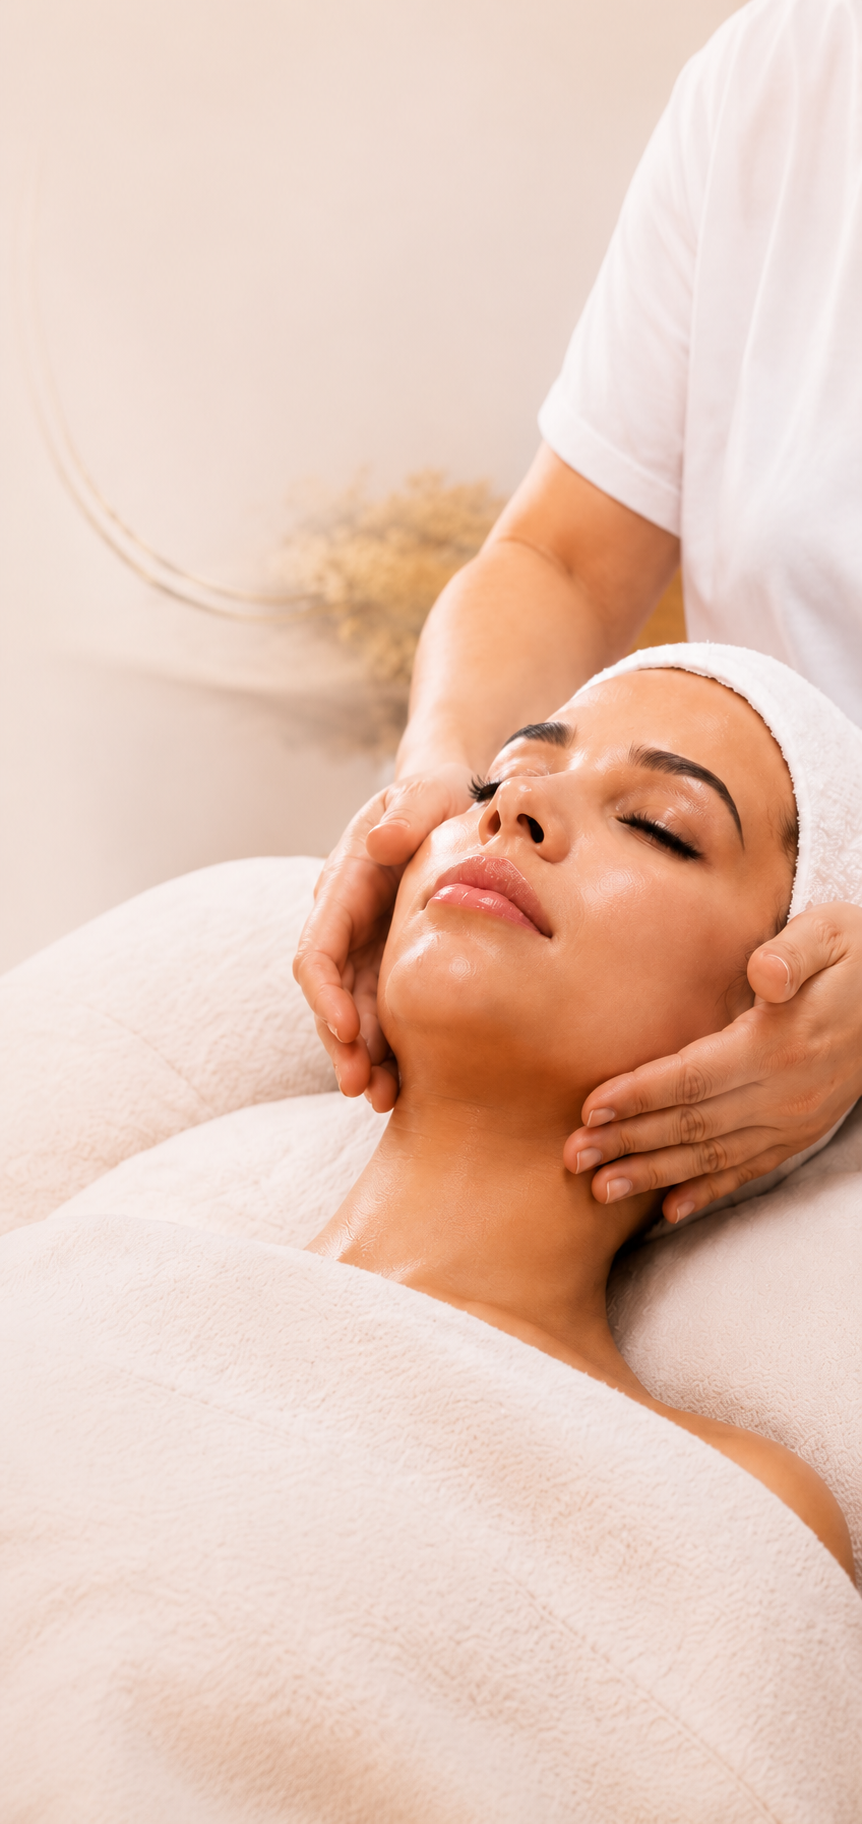
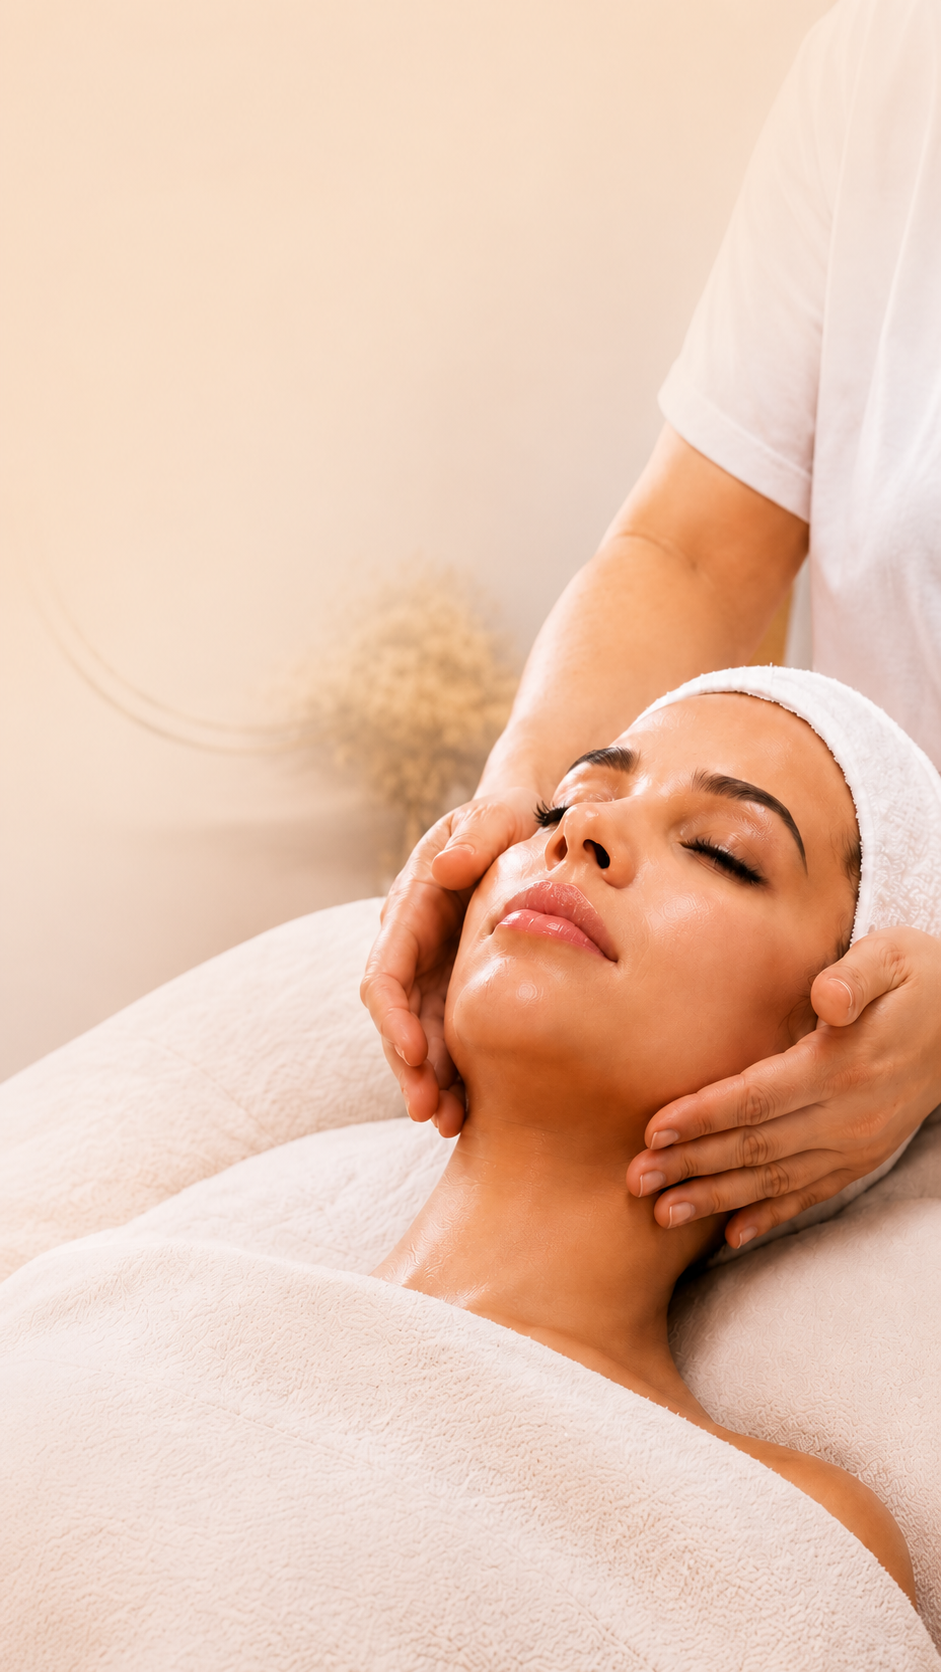
add new responsive css and new images

diff --git a/src/components/Footer.jsx b/src/components/Footer.jsx
@@ -10,9 +10,9 @@ export default function Footer() {
   return (
     <>
     <section id="contato" className="bg-[#FEFCF9]">
-      <h2 className="text-[36px] font-bold mb-4 text-center pt-10">Venha nos conhecer</h2>
+      <h2 className="text-[36px] font-bold mb-4 text-center pt-10 pb-0 max-tab:pt-10 max-mob:text-[28px] max-mob:mb-0">Venha nos conhecer</h2>
       <div className=" px-10 py-10 flex items-start justify-between max-tab:px-5">
-        <div className="max-w-[1440px] flex items-start gap-10 mx-auto max-lap:flex-wrap max-lap:justify-around max-tab:flex-wrap-reverse max-tab:justify-center">
+        <div className="max-w-[1440px] flex items-start gap-10 mx-auto max-lap:flex-wrap-reverse max-lap:justify-center">
 
           <div className="flex flex-col items-start justify-center text-start w-[350px] max-mob:w-full">
             <span className="text-[16px] font-semibold text-yellow-700 uppercase mb-4">Envie uma mensagem</span>
@@ -25,7 +25,7 @@ export default function Footer() {
             </form>
           </div>
 
-          <div className="flex flex-col items-start justify-center text-start max-tab:w-[43%] max-mob:w-full">
+          <div className="flex flex-col items-start justify-center text-start max-lap:w-[43%] max-mob:w-full">
             <span className="text-[16px] font-semibold text-yellow-700 uppercase mb-4">Agende sua consulta</span>
             <h3 className="text-[22px] font-bold mb-4 leading text-[#8B4513] leading-[1.3]">Vamos realçar sua melhor&nbsp;versão?</h3>
             <span className="text-[14px] text-gray-600 mb-6">Entre em contato e agende sua avaliação personalizada.</span>
@@ -42,25 +42,25 @@ export default function Footer() {
               </a>
             </div>
             <div className="flex flex-col gap-2">
-              <span className="flex items-center gap-2">
-                <Phone size={16} />
-                (77) 99123-6335
-              </span>
-              <span className="flex items-center gap-2">
-                <MapPin size={16} />
-                Centro médico Otavio Santos
-              </span>
+              <div className="flex items-center gap-2">
+                <span><Phone size={16} /></span>
+                <span className="flex items-center gap-2">(77) 99123-6335</span>
+              </div>
+              <div className="flex items-center gap-2">
+                <span><MapPin size={16} /></span>
+                <span className="flex items-center gap-2"> Av. Otávio Santos, 227 - Recreio, Vitória da Conquista - BA, 45020-310</span>
+              </div>
             </div>
           </div>
 
           
 
-          <div className="w-[350px] max-tab:w-full">
+          <div className="w-[350px] max-lap:w-full">
             <span className="text-[16px] font-semibold text-yellow-700 uppercase mb-4">Localização</span>
             <img 
               src="/assets/location2.png" 
               alt="Centro médico Otavio Santos" 
-              className="rounded-lg mt-2 mb-2 w-[350px] h-[320px] object-cover max-tab:w-full"
+              className="rounded-lg mt-2 mb-2 w-[350px] h-[320px] object-cover max-lap:w-full max-lap:h-[420px]"
             />
             <a href="https://maps.app.goo.gl/LwSqD6rW6jXQacdf7" target="_blank" rel="noopener noreferrer" className="text-center text-[18px] px-4 py-2 rounded mt-6 block cursor-pointer text-yellow-700 bg-white border border-yellow-700  transition-all duration-300 hover:bg-yellow-900 hover:text-white hover:border-yellow-900">Ver no Google Maps</a>
           </div>
@@ -68,10 +68,10 @@ export default function Footer() {
         </div>
       </div>
 
-      <div className="gap-4 border-t py-4 px-5 text-[14px] text-yellow-900">
-        <div className="flex justify-around items-center max-w-[1440px]">
+      <div className="gap-4 border-t py-4 px-5 text-[14px] text-yellow-900 max-mob:text-[12px]">
+        <div className="flex justify-around items-center max-w-[1440px] max-mob:flex-col">
           <img src="/assets/logo2.png" alt="Logo" className="w-auto h-20" />
-          <span>© 2026 Larissa Almeida Harmonização Facial. Todos os direitos reservados.</span>
+          <span className="max-mob:text-center">© 2026 Larissa Almeida Harmonização Facial. Todos&nbsp;os&nbsp;direitos&nbsp;reservados.</span>
         </div>
       </div>
       

diff --git a/src/components/Trataments.jsx b/src/components/Trataments.jsx
@@ -1,14 +1,13 @@
-import FaceIcon from "./icons/FaceIcon.jsx";
 
 export default function Trataments() {
   return (
     <>
       <section id="tratamentos" className="bg-[#FEFCF9]">
-        <h2 className="text-4xl font-bold text-[#2C1A0F] text-center py-15 pb-18 max-tab:pt-5 max-mob:text-[28px] max-mob:px-5">Nossos Tratamentos</h2>
-        <div className="flex items-center justify-center gap-8 px-10 pb-4 max-lap:flex-wrap max-lap:gap-x-8 max-lap:gap-y-20 max-tab:px-5">
+        <h2 className="text-4xl font-bold text-[#2C1A0F] text-center py-15 pb-18 max-tab:pt-5 max-mob:text-[28px] max-mob:px-5 max-mob:pt-10">Nossos Tratamentos</h2>
+        <div className="flex items-center justify-center gap-7 px-10 pb-4 max-lap:flex-wrap max-lap:gap-x-8 max-lap:gap-y-20 max-tab:px-5">
           
           <div className="flex flex-col items-center justify-end gap-4 text-center w-[500px] h-[430px] bg-white rounded-lg shadow-md transition-all duration-300 relative max-lap:w-[47%] max-lap:h-auto max-mob:w-full">
-            <span className="bg-[#fff3f1] p-3 rounded-full absolute top-[-45px] w-[80px] h-[80px] flex items-center justify-center"><FaceIcon /></span>
+            <img src="../assets/trat1.png" className="bg-[#fff3f1] p-3 rounded-full absolute top-[-45px] flex items-center justify-center w-[110px] max-lap:w-[90px]" />
             <h3 className="text-xl font-bold text-[#2C1A0F] px-4 pt-12">Harmonização Facial</h3>
             <span className="text-gray-600 px-6 max-lap:max-w-[350px]">Equilíbrio e harmonia para realçar sua beleza natural.</span>
             <span className="text-yellow-700 hover:text-yellow-900 cursor-pointer">Saiba mais</span>
@@ -16,7 +15,7 @@ export default function Trataments() {
           </div>
 
           <div className="flex flex-col items-center justify-end gap-4 text-center w-[500px] h-[430px] bg-white rounded-lg shadow-md transition-all duration-300 relative max-lap:w-[47%] max-lap:h-auto max-mob:w-full">
-            <span className="bg-[#fff3f1] p-3 rounded-full absolute top-[-45px] w-[80px] h-[80px] flex items-center justify-center"><FaceIcon /></span>
+            <img src="../assets/trat2.png" className="bg-[#fff3f1] p-3 rounded-full absolute top-[-45px] flex items-center justify-center w-[110px] max-lap:w-[90px]" />
             <h3 className="text-xl font-bold text-[#2C1A0F] px-4 pt-12">Toxina Botulínica</h3>
             <span className="text-gray-600 px-6 max-lap:max-w-[350px]">Suaviza rugas e linhas de expressão com naturalidade.</span>
             <span className="text-yellow-700 hover:text-yellow-900 cursor-pointer">Saiba mais</span>
@@ -24,7 +23,7 @@ export default function Trataments() {
           </div>
 
           <div className="flex flex-col items-center justify-end gap-4 text-center w-[500px] h-[430px] bg-white rounded-lg shadow-md transition-all duration-300 relative max-lap:w-[47%] max-lap:h-auto max-mob:w-full">
-            <span className="bg-[#fff3f1] p-3 rounded-full absolute top-[-45px] w-[80px] h-[80px] flex items-center justify-center"><FaceIcon /></span>
+            <img src="../assets/trat3.png" className="bg-[#fff3f1] p-3 rounded-full absolute top-[-45px] flex items-center justify-center w-[110px] max-lap:w-[90px]" />
             <h3 className="text-xl font-bold text-[#2C1A0F] px-4 pt-12">Preenchimento</h3>
             <span className="text-gray-600 px-6 max-lap:max-w-[350px]">Volume e contorno para um resultado sofisticado.</span>
             <span className="text-yellow-700 hover:text-yellow-900 cursor-pointer">Saiba mais</span>
@@ -32,14 +31,14 @@ export default function Trataments() {
           </div>
 
           <div className="flex flex-col items-center justify-end gap-4 text-center w-[500px] h-[430px] bg-white rounded-lg shadow-md transition-all duration-300 relative max-lap:w-[47%] max-lap:h-auto max-mob:w-full">
-            <span className="bg-[#fff3f1] p-3 rounded-full absolute top-[-45px] w-[80px] h-[80px] flex items-center justify-center"><FaceIcon /></span>
+            <img src="../assets/trat4.png" className="bg-[#fff3f1] p-3 rounded-full absolute top-[-45px] flex items-center justify-center w-[110px] max-lap:w-[90px]" />
             <h3 className="text-xl font-bold text-[#2C1A0F] px-4 pt-12">Bioestimuladores</h3>
             <span className="text-gray-600 px-6 max-lap:max-w-[350px]">Estimula o colágeno e melhora a firmeza da pele.</span>
             <span className="text-yellow-700 hover:text-yellow-900 cursor-pointer">Saiba mais</span>
             <img src="../assets/card4.png" alt="Bioestimuladores" className="w-full h-[200px] object-cover rounded-b-lg max-lap:h-[350px]" />
           </div>
         </div>
-         <a href="https://wa.me/5577991236335?text=Olá! Vim pelo site e gostaria de agendar uma consulta. Pode me passar mais informações sobre os tratamentos disponíveis?" className="w-[37%] max-w[400px] text-center mx-auto mt-[20px] mb-[60px] text-[18px] px-4 py-2 rounded mt-6 block cursor-pointer text-yellow-700 bg-white border border-yellow-700  transition-all duration-300 hover:bg-yellow-900 hover:text-white hover:border-yellow-900 max-tab:w-[49%] max-tab:max-w-[375px] max-mob:w-[80%] max-mob:max-w-[345px]">Conheça nossos tratamentos</a>
+         <a href="https://wa.me/5577991236335?text=Olá! Vim pelo site e gostaria de agendar uma consulta. Pode me passar mais informações sobre os tratamentos disponíveis?" className="w-[37%] max-w[400px] text-center mx-auto mt-[20px] mb-[60px] text-[18px] px-4 py-2 rounded mt-6 block cursor-pointer text-yellow-700 bg-white border border-yellow-700  transition-all duration-300 hover:bg-yellow-900 hover:text-white hover:border-yellow-900 max-tab:w-[49%] max-tab:max-w-[375px] max-mob:w-[80%] max-mob:max-w-[345px] max-mob:mb-[40px]">Conheça nossos tratamentos</a>
        
       </section>
     </>

diff --git a/src/app/page.js b/src/app/page.js
@@ -11,8 +11,8 @@ export default function Home() {
    <>
     <Header />
     <Hero />
-    <About />
     <Trataments />
+    <About />
     <Results />
     <Depoiments />
     <Footer />

diff --git a/src/components/About.jsx b/src/components/About.jsx
@@ -6,7 +6,7 @@ export default function About() {
     <>
     <section id="about">
       <div className=" flex px-10 gap-16 justify-center items-center max-lap:gap-10 max-tab:flex-col max-tab:gap-6 max-tab:px-5 max-tab:w-full bg-[#FEFCF9] py-10">
-        <div className="w-auto h-[650px] rounded-xl">
+        <div className="w-auto h-[650px] rounded-xl max-mob:h-[400px]">
           <img 
             src="/assets/larissa-v3.png" 
             alt="Dra. Larissa Almeida" 

diff --git a/src/components/Header.jsx b/src/components/Header.jsx
@@ -37,7 +37,7 @@ export default function Header() {
 
   return (
     <>
-      <header className= {`${activeSection === "heroBanner" && !isScrolled ? " bg-transparent w-full h-16 flex items-center justify-center gap-12 px-10 fixed transition-colors duration-300 z-3 max-lap:px-5 max-lap:gap-10 max-tab:relative" : "bg-white w-full h-16 flex items-center justify-center gap-12 px-10 fixed shadow-sm transition-colors duration-300 z-3 max-lap:px-5 max-lap:gap-10 max-tab:relative max-tab:bg-transparent"}`}>
+      <header className= {`${activeSection === "heroBanner" && !isScrolled ? "bg-transparent w-full h-16 flex items-center justify-center gap-12 px-10 fixed transition-colors duration-300 z-3 max-lap:px-5 max-tab:bg-transparent max-tab:shadow-none" : "bg-white w-full h-16 flex items-center justify-center gap-12 px-10 fixed shadow-sm transition-colors duration-300 z-3 max-lap:px-5 max-lap:gap-10  max-tab:absolute max-tab:bg-transparent max-tab:shadow-none"}`}>
         <div className="hidden max-tab:flex">
 
         </div>

diff --git a/src/components/Hero.jsx b/src/components/Hero.jsx
@@ -8,7 +8,7 @@ import { ArrowRight } from "lucide-react";
 export default function Hero() {
   return (
     <>
-      <section id="heroBanner" className= "bg-[url('/assets/heroBanner2.png')] h-180 bg-cover flex items-center justify-start px-[120px] max-lap:px-[40px] max-tab:px-5 max-mob:px-[20px] max-tab:bg-[url('/assets/heroBanner2-tablet.png')]  max-mob:bg-[url('/assets/heroBanner2-mobile.png')] max-mob:h-140">
+      <section id="heroBanner" className= "bg-[url('/assets/heroBanner2.png')] h-180 bg-cover flex items-center justify-start px-[120px] max-lap:px-[40px] max-tab:px-5 max-mob:px-[20px] max-tab:bg-[url('/assets/heroBanner2-tablet.png')]  max-mob:bg-[url('/assets/heroBanner2-mobile.png')] max-mob:h-130">
         <div className="flex flex-col justify-center w-[550px] rounded-lg p-5 pt-[100px] max-tab:p-0 max-tab:pt-[50px] max-mob:pt-[0px]">
           <p className="text-[14px] font-semibold uppercase text-yellow-700 max-tab:text-[12px]">Beleza natural. Resultados&nbsp;extraordinários.</p>
           <h1 className="text-[52px] font-bold text-yellow-900 font-[cormorantGaramond] leading-[1.2] max-mob:text-[36px]">Sua melhor versão, com&nbsp;<span className="text-yellow-700">naturalidade</span></h1>